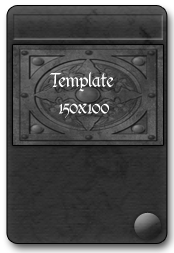
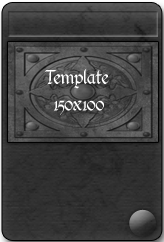
карточки и движущийся фон

diff --git a/WebApplication1/web/field.js b/WebApplication1/web/field.js
@@ -2,6 +2,12 @@ function fieldPage() {
 
     clearElements();
 
+var shiftbackright = 0;
+var shiftbackdirectionright = 1;
+var shiftbackdown = 0;
+var shiftbackdirectiondown = 2;
+
+
     background.draw = function () {
         drawBox(0,0,relSizeX(),relSizeY(),"#DDDDDD");
         /*drawBox(relSizeX()/2-500, relSizeY()/2+75, 150, 200,"brown");
@@ -16,7 +22,39 @@ function fieldPage() {
         drawTowerCore(130,150,40,250);*/
         //var img = resource["fon"].image;
         //bctx.drawImage(img, 0, 0);
-        drawPicture("fon", 0, 0);
+        //shiftback--;
+        if (shiftbackdirectionright===1)
+            shiftbackright-=2;
+        else
+            if (shiftbackdirectionright===0)
+                shiftbackright+=2;
+        if (shiftbackdirectiondown===1)
+            shiftbackdown-=2;
+        else
+            if (shiftbackdirectiondown===0)
+                shiftbackdown+=2;
+        
+        if ((shiftbackright===-1920+1280)&&(shiftbackdown===0)) {
+            shiftbackdirectionright = 2;
+            shiftbackdirectiondown = 1;
+        }
+        
+        if ((shiftbackright===-1920+1280)&&(shiftbackdown===-1080+720)) {
+            shiftbackdirectionright = 0;
+            shiftbackdirectiondown = 2;
+        }
+    
+        if ((shiftbackright===0)&&(shiftbackdown===-1080+720)) {
+            shiftbackdirectionright = 2;
+            shiftbackdirectiondown = 0;
+        }
+    
+        if ((shiftbackright===0)&&(shiftbackdown===0)) {
+            shiftbackdirectionright = 1;
+            shiftbackdirectiondown = 2;
+        }
+        drawPicture("fon", shiftbackright, shiftbackdown);
+        //drawPicture("fon", shiftback--, 0);
     }
     
  
@@ -38,6 +76,11 @@ function fieldPage() {
                 drawBox(this.x-5, this.y-5, this.width+10, this.height+10,"#f2de29");
                 drawBox(this.x, this.y, this.width, this.height,this.color);
             }
+             
+            /*this.el.draw = function () {
+                drawBox(this.x-5, this.y-5, this.width+10, this.height+10,"#f2de29");
+                drawBox(this.x, this.y, this.width, this.height,this.color);*/
+             
             drawCanvas();
             processed = true;
         }
@@ -143,6 +186,10 @@ function fieldPage() {
                     bctx.fillText("Скинул", relSizeX()/2, relSizeY()/3);
                     bctx.closePath();
                     
+                    doHeal();
+                    doGain();
+                    changeCurrentPlayer();
+                    
                     onScreen();
                     var el2 = this.el;
                     setTimeout(function() {el2.restore();el2.restoreDraw();drawCanvas();el2.waiting=false;}, 1000);
@@ -155,7 +202,21 @@ function fieldPage() {
     
     
     function colorCard (color, card) {
-        drawBox(card.x, card.y, card.width, card.height, color);
+        
+        //drawBox(card.x, card.y, card.width, card.height, color);
+        var img = resource["card"].image;
+        card.width = img.width;
+        card.height = img.height;
+        bctx.drawImage(img, card.x, card.y);
+        /*var matr = bctx.getImageData(card.x-10, card.y-10, card.width, card.height);
+        var pixels = matr.data;
+        for (var i = 0, il = pixels.length; i < il; i += 4) {
+            pixels[i] = pixels[i]*2;
+            pixels[i+1] = pixels[i+1]*0.2;
+            pixels[i+2] = pixels[i+2]*0.2;
+            pixels[i+3] = pixels[i+3]*0.95;
+        }
+        bctx.putImageData(matr, card.x-10, card.y-10);*/
         card.color = color;
     }
     
@@ -205,8 +266,8 @@ function fieldPage() {
         bctx.drawImage(core, shift+disp, max-dist);
 
         //drawBox(shift+disp+core.width/2-25, 450, 50, 30, "green")
-        drawLightening(shift+disp+core.width/2-18, 460, 36, 25, -50);
-        drawStrokeBox(shift+disp+core.width/2-18, 460, 36, 25, "white", 1);
+        drawLightening(shift+disp+core.width/2-17, 460, 34, 25, -50);
+        drawStrokeBox(shift+disp+core.width/2-17, 460, 34, 25, "white", 1);
         bctx.beginPath();
         var fontWidth = 15;
         bctx.font = "bold "+fontWidth+"pt Calibri";
@@ -254,8 +315,8 @@ function fieldPage() {
         //drawBox(shift-100, max, 200, 5, "blue")
         
         
-        drawLightening(shift+wall.width/2-18, 460, 36, 25, -50);
-        drawStrokeBox(shift+wall.width/2-18, 460, 36, 25, "white", 1);
+        drawLightening(shift+wall.width/2-17, 460, 34, 25, -50);
+        drawStrokeBox(shift+wall.width/2-17, 460, 34, 25, "white", 1);
         bctx.beginPath();
         var fontWidth = 15;
         bctx.font = "bold "+fontWidth+"pt Calibri";
@@ -381,8 +442,8 @@ function fieldPage() {
         var player = new Object();
         player.name = name;
         player.resources = [];
-        player.hp = 100;
-        player.wall = 100;
+        player.hp = 50;
+        player.wall = 25;
         return player;
     }   
        
@@ -757,6 +818,19 @@ function fieldPage() {
         }
     }
 
+    function doHeal() {
+        if (currentPlayer === player1) {
+            changeHp(player1, 10);
+            doDamage(player1, 25);
+            //changeWall(player2, 10);
+        } else {
+            changeHp(player2, 10);
+            doDamage(player2, 25);
+            //changeWall(player2, 10);
+        }
+        drawCanvas();
+    }
+
     function doPain() {
         if (currentPlayer === player1) {
             changeHp(player2, -10);
@@ -797,6 +871,21 @@ function fieldPage() {
         if (player.hp <= 0) {
             
             alert(player.name+" проиграл!");
+            clearElements();
+            background.draw = function () {
+                drawBox(0,0,sizeX,sizeY, "#DDDDDD");
+                bctx.beginPath();
+                bctx.font = "80pt Garamond";
+                bctx.textAlign = "center";
+                bctx.fillStyle = "magenta";
+                bctx.fillText("Конец.", sizeX/2, sizeY/2);
+                bctx.closePath();
+            }
+            //startGame();
+        }
+        if (player.hp >= maxhp) {
+            
+            alert(player.name+" выиграл!");
             clearElements();
             background.draw = function () {
                 drawBox(0,0,sizeX,sizeY, "#DDDDDD");
